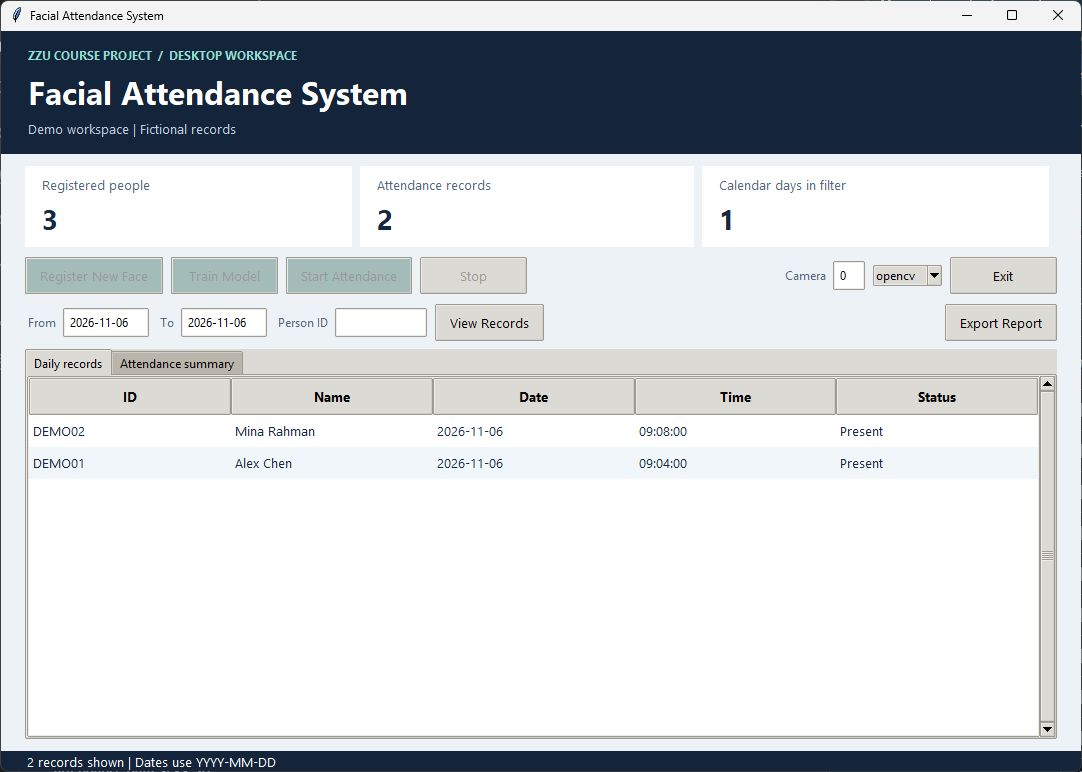
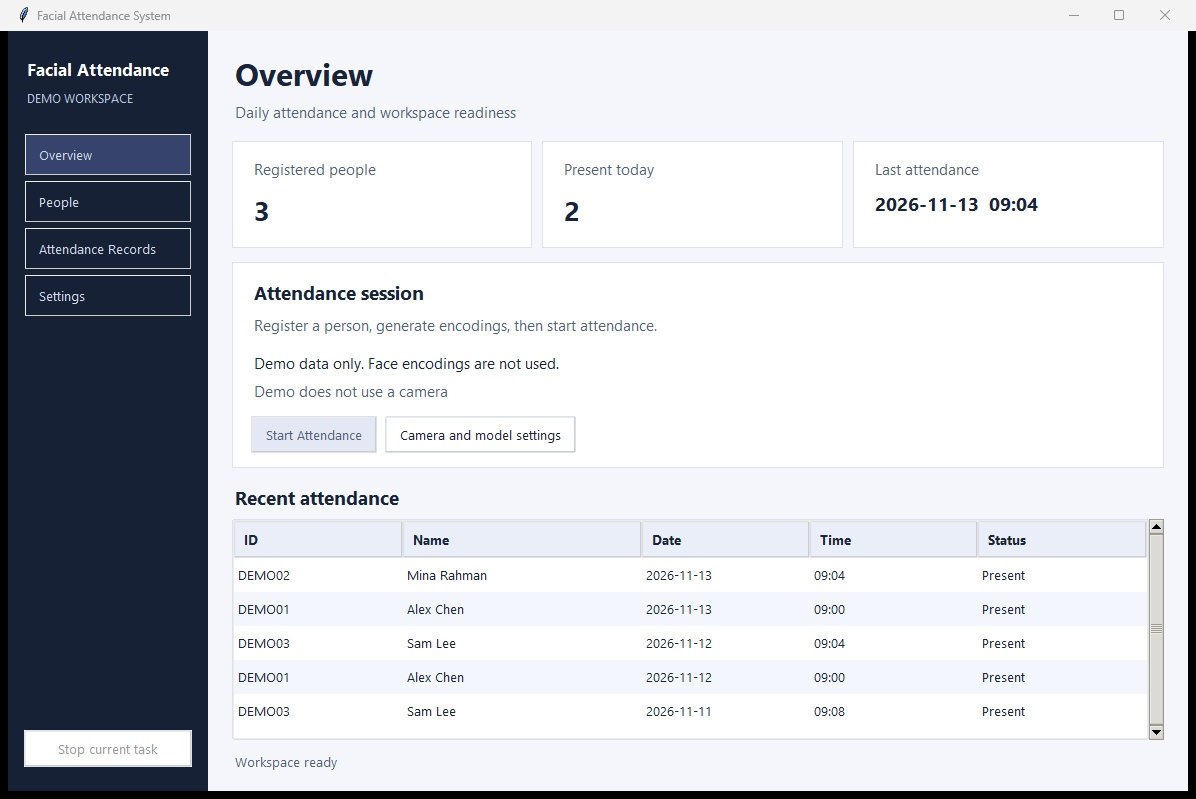
Document the redesigned workspace and demo

diff --git a/README.md b/README.md
@@ -1,6 +1,6 @@
 # Facial Attendance System
 
-A Python desktop attendance project originally completed for my fourth-semester Object Oriented Techniques course at Zhengzhou University. The coursework prototype used Tkinter, a webcam and dlib face encodings. This portfolio refresh adds SQLite, filtered reports, a redesigned dashboard and an OpenCV recognition option.
+A Python desktop attendance project originally completed for my fourth-semester Object Oriented Techniques course at Zhengzhou University. The coursework prototype used Tkinter, a webcam and dlib face encodings. The portfolio version adds SQLite storage, CSV and Excel reports, and an OpenCV recognition option. The redesigned desktop workspace guides an operator from enrollment to attendance and reporting.
 
 ![Desktop dashboard with fictional attendance records](docs/dashboard.jpg)
 
@@ -14,7 +14,7 @@ python -m venv .venv
 .\.venv\Scripts\python.exe main.py --demo
 ```
 
-Demo mode uses fictional records in a temporary database. You can filter and export them without a camera or model download.
+Demo mode opens a temporary database with three fictional people and five days of attendance. Use **People** to view the roster or **Attendance Records** to filter and export records without a webcam or model download.
 
 For the live workflow, close the Windows Camera app and run:
 
@@ -44,11 +44,13 @@ A trusted prebuilt wheel must match the Python version and Windows architecture.
 
 ## Use the app
 
-1. **Register New Face.** Enter a unique ID, name and department. Press Space for each of 24 samples, varying the pose slightly. The app saves a sample only when it sees one face. Press Q or Esc to cancel.
-2. **Train Model.** Encode the saved samples. The status bar reports successful and failed samples for each ID. Train again after enrolling someone new.
-3. **Start Attendance.** Present one person at a time. A match must agree across three consecutive processed frames. The preview shows the ID and marking result. Press Q or Esc, or click Stop in the dashboard.
-4. **View Records.** Enter the inclusive date range and, optionally, an ID. The summary divides days marked present by all calendar days in the filter, including weekends. It is a calendar coverage measure.
-5. **Export Report.** Choose CSV for daily records or Excel for both the records and summary sheets.
+1. Open **Settings** and run **Check camera**. Choose the OpenCV or dlib backend.
+2. In **People**, select **Register Person**. Enter a unique ID, name and department. Press Space to capture each of the 24 samples, varying the pose slightly. Only frames with one face count. Press Q or Esc to cancel.
+3. In **Settings**, select **Generate encodings**. The status bar reports usable and skipped samples. The People view shows who still needs an encoding.
+4. In **Overview**, select **Start Attendance**. Present one person at a time. The preview confirms a match across three processed frames and displays the name, ID and result. To end the run, press Q or Esc in the preview or use **Stop current task**.
+5. In **Attendance Records**, apply an inclusive date range and optional person ID. **Export report** exports the applied filter. CSV contains daily records. Excel includes daily records and a summary. The summary divides present days by calendar days in the selected range, including weekends.
+
+![Attendance Records filtered to five days of demo data](docs/attendance-records.jpg)
 
 ## Project design
 
@@ -78,6 +80,10 @@ flowchart LR
 .\.venv\Scripts\python.exe -m unittest discover -s tests -v
 ```
 
-Regression tests cover daily deduplication, filters, Excel and CSV export, confirmation and unknown rejection, multiple faces during enrollment, empty training data and camera failure. A separate test fed a sample image through capture, encoding and recognition using the downloaded OpenCV models. The first run marked attendance and replay on the same day left one database row. A blank frame produced no face. The webcam preview was verified at 640 x 480 on Windows. Live enrollment and recognition with consenting participants still need a hands-on run. No population accuracy figure has been measured.
+GitHub Actions runs the camera-free checks on Windows with Python 3.10 and 3.12. The suite covers duplicate enrollment and attendance, filtered reports, CSV/Excel export, unknown-face rejection, consecutive match confirmation, multiple faces during enrollment, missing encodings, empty training data and camera failure. The recognition workflow test uses synthetic embeddings and simulated camera frames.
+
+The Windows Tkinter demo was checked for navigation, filtering, reset and export. The original webcam preview was verified at 640 × 480. A complete live run on the redesigned app still needs a webcam and a consenting participant. To verify it, enroll one person, generate encodings, mark attendance, try a second scan on the same day, and export the resulting single row. Also try a second face in frame and reduced lighting. No population accuracy figure has been measured.
+
+Only fictional data appears in the screenshots. Local face samples, encoding indexes, databases, reports and downloaded models are excluded by `.gitignore`.
 
 For a small evaluation, use consented samples distinct from the enrollment images. Test known and unknown people across lighting conditions and record false accepts and false rejects separately. Increasing the SFace similarity threshold or decreasing dlib distance tolerance makes matching stricter. This prototype does not check liveness, so a photo may be accepted. An attendance calendar and liveness checks are future work.
